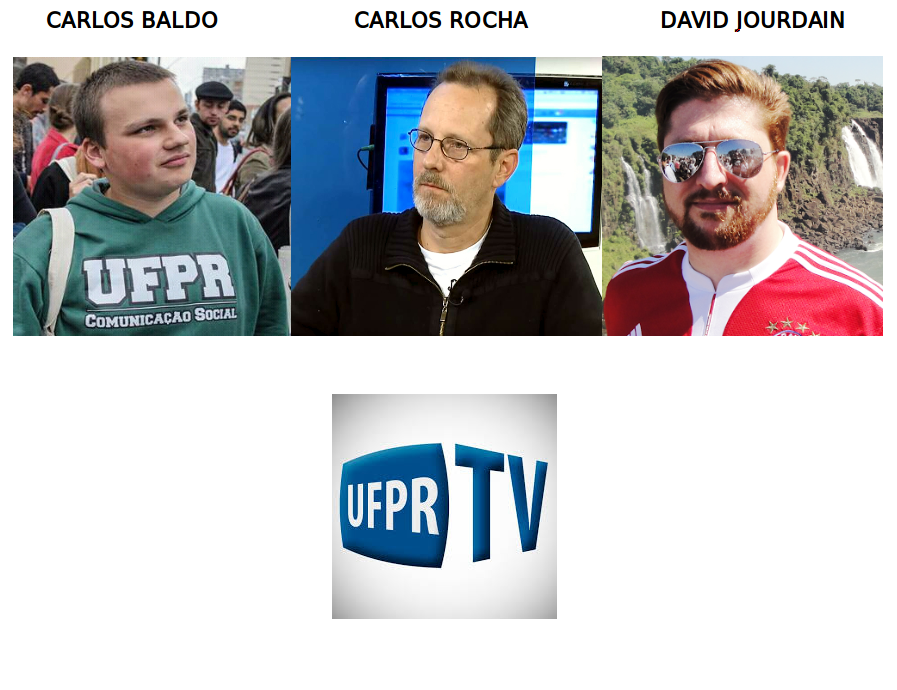
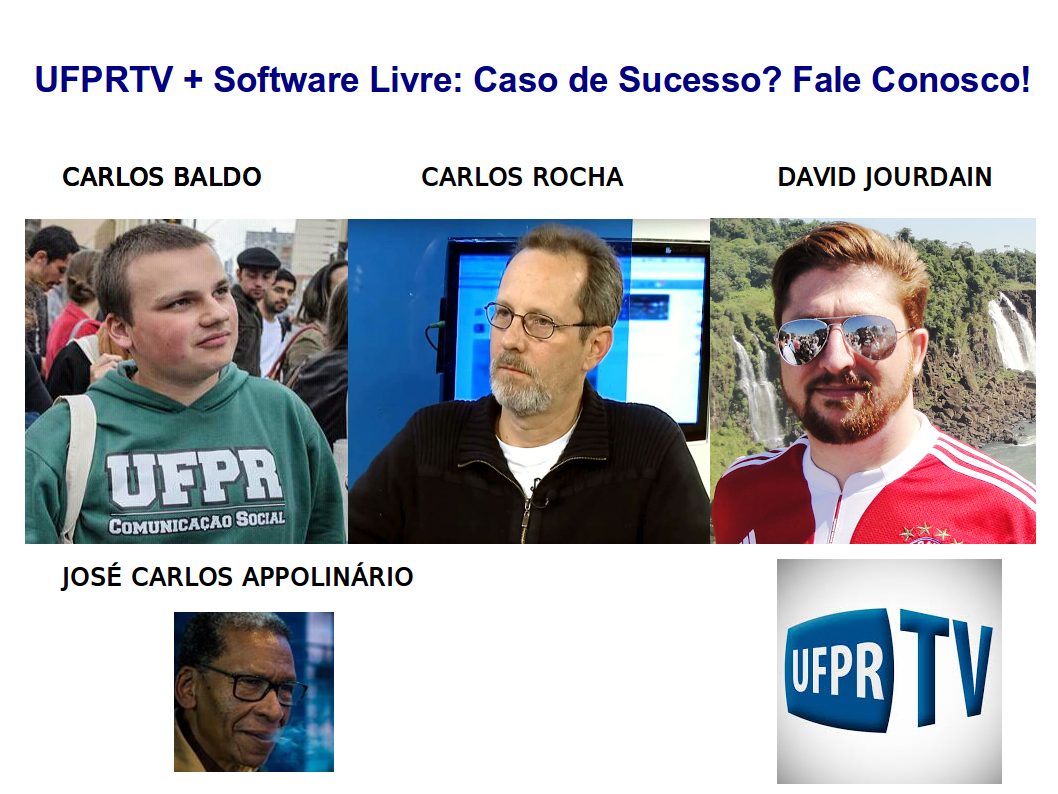
Noticia sobre Jourdain (UFPRTV + Software Livre: Caso de Sucesso? Fale Conosco!) #58
- Adição da foto do senhor José Appolinário

diff --git a/noticias/_posts/2017-08-15-ufprtv_software_livre_caso_de_sucesso.md b/noticias/_posts/2017-08-15-ufprtv_software_livre_caso_de_sucesso.md
@@ -3,7 +3,7 @@ layout: post
 title:  "UFPRTV + Software Livre: Caso de Sucesso? Fale Conosco!"
 date:   2017-08-15 14:13:00 -0300
 image: "ufprtv_softwarelivre.png"
-excerpt: " "
+excerpt: "Case de sucesso de IPTV para a UFPR TV"
 permalink: /2017/08/15/ufprtv_software_livre_caso_de_sucesso.html
 ---
 
@@ -27,7 +27,9 @@ Diretor Geral de Rádio e TV da UFPRTV e Professor da UFPR. Além disso, trabalh
 
 Membro fundador e moderador das listas em língua portuguesa da TDF. Foi professor universitário, tendo ministrado Engenharia de Software, Engenharia de Sistemas, Construção de Sistemas Operacionais e Arquitetura de Sistemas Operacionais. Atualmente, tem se envolvido em pesquisa aplicada para Video Broadcasting, com uso de ferramentas livres.
 
-#### José Carlos Appolinário
+#### José Carlos Appolinário 
+
+![Jose Carlos Appolinário]({{ site.baseurl }}/images/JOSE_APPOLINARIO.jpg)
 
 Servidor público estatutário federal, desde 1987. Desempenhou atividades na área de Comunicação Institucional na WebTv da UFRJ. Compõe o time da UFPRTV.
 
